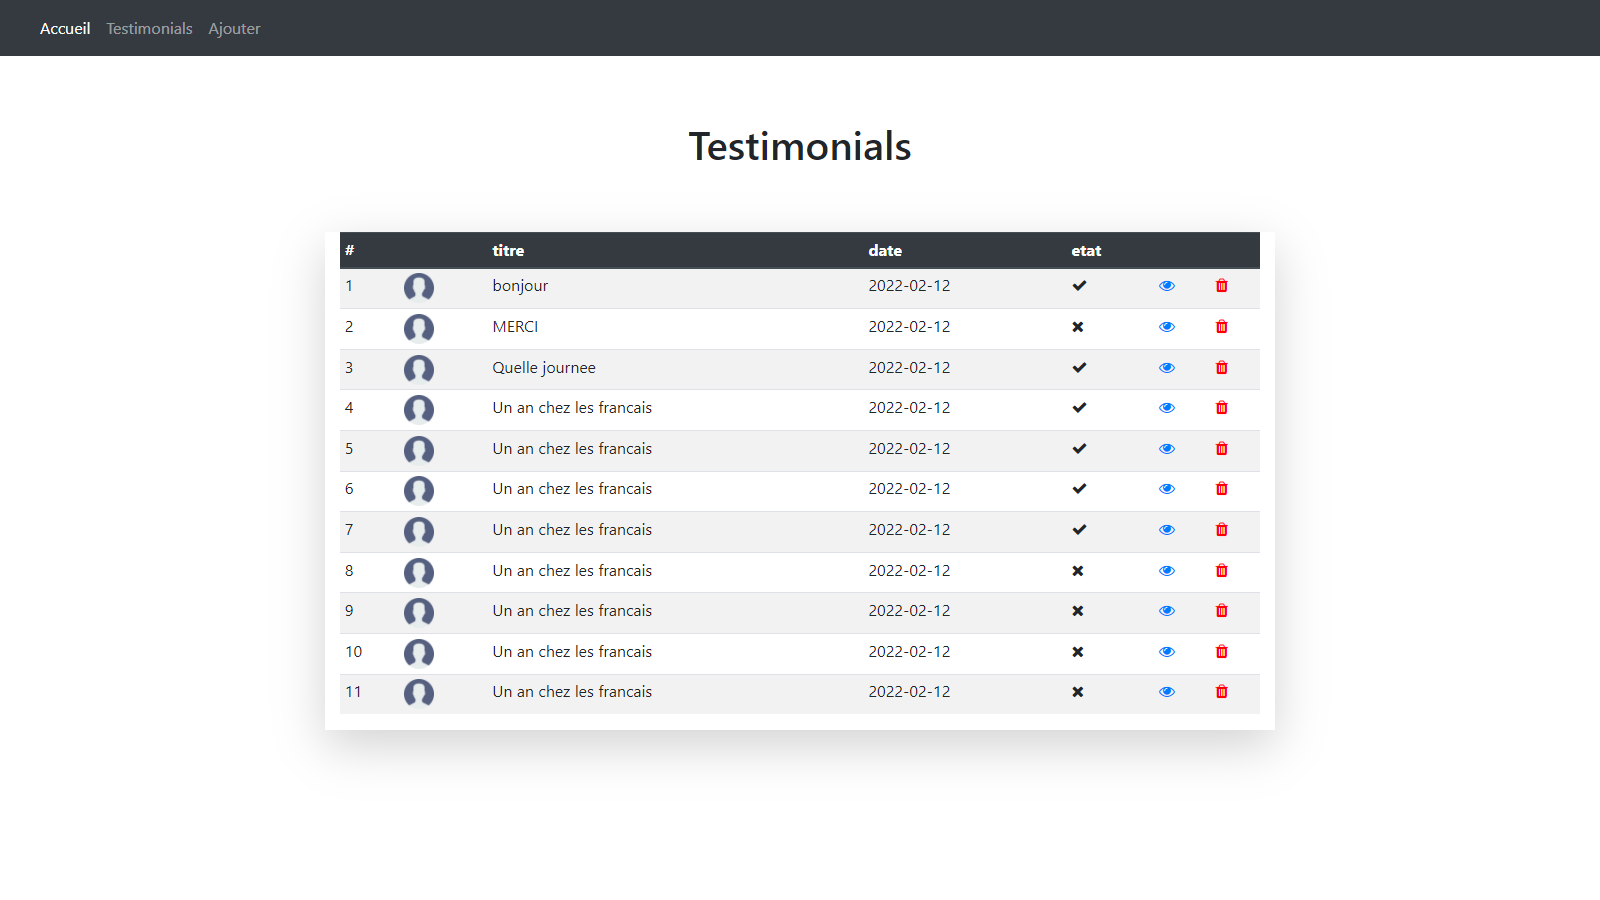
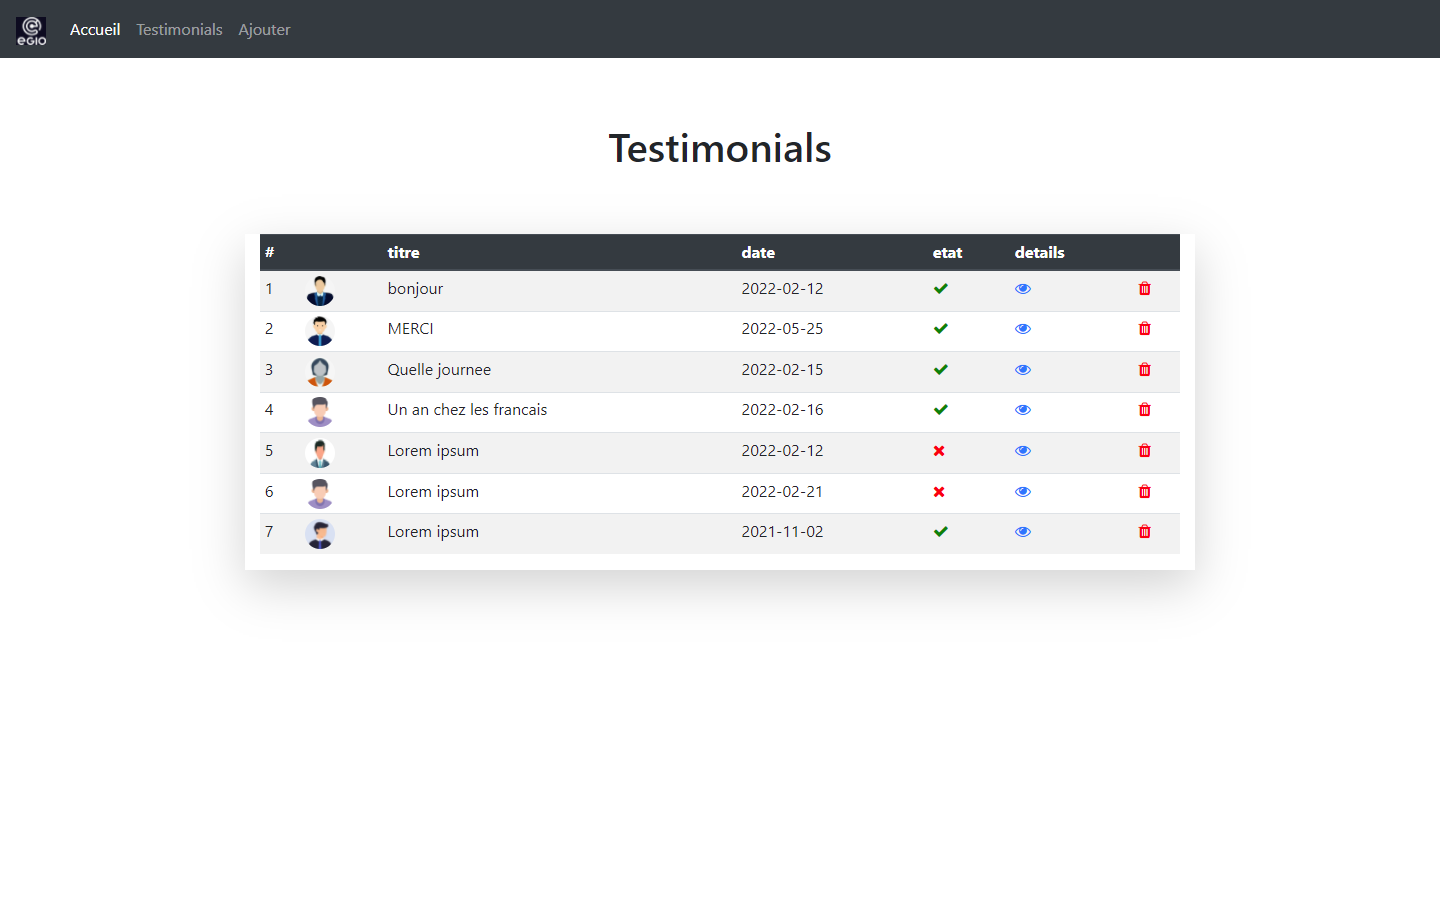
update README

diff --git a/app/Views/testimonial/index.php b/app/Views/testimonial/index.php
@@ -21,7 +21,7 @@
 
                         <th scope="col">date</th>
                         <th scope="col">etat</th>
-                        <th scope="col"></th>
+                        <th scope="col">details</th>
                         <th scope="col"></th>
 
                     </tr>
